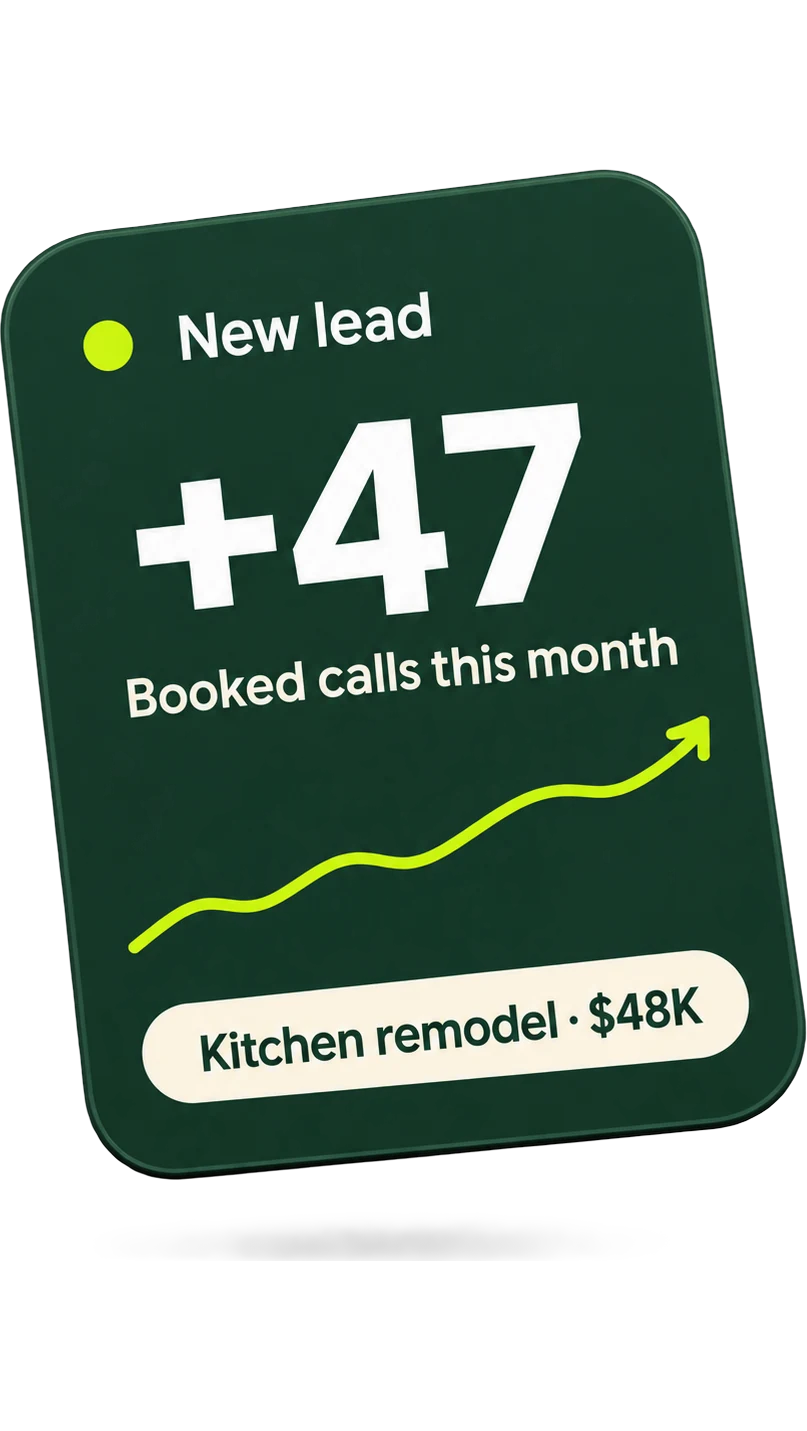
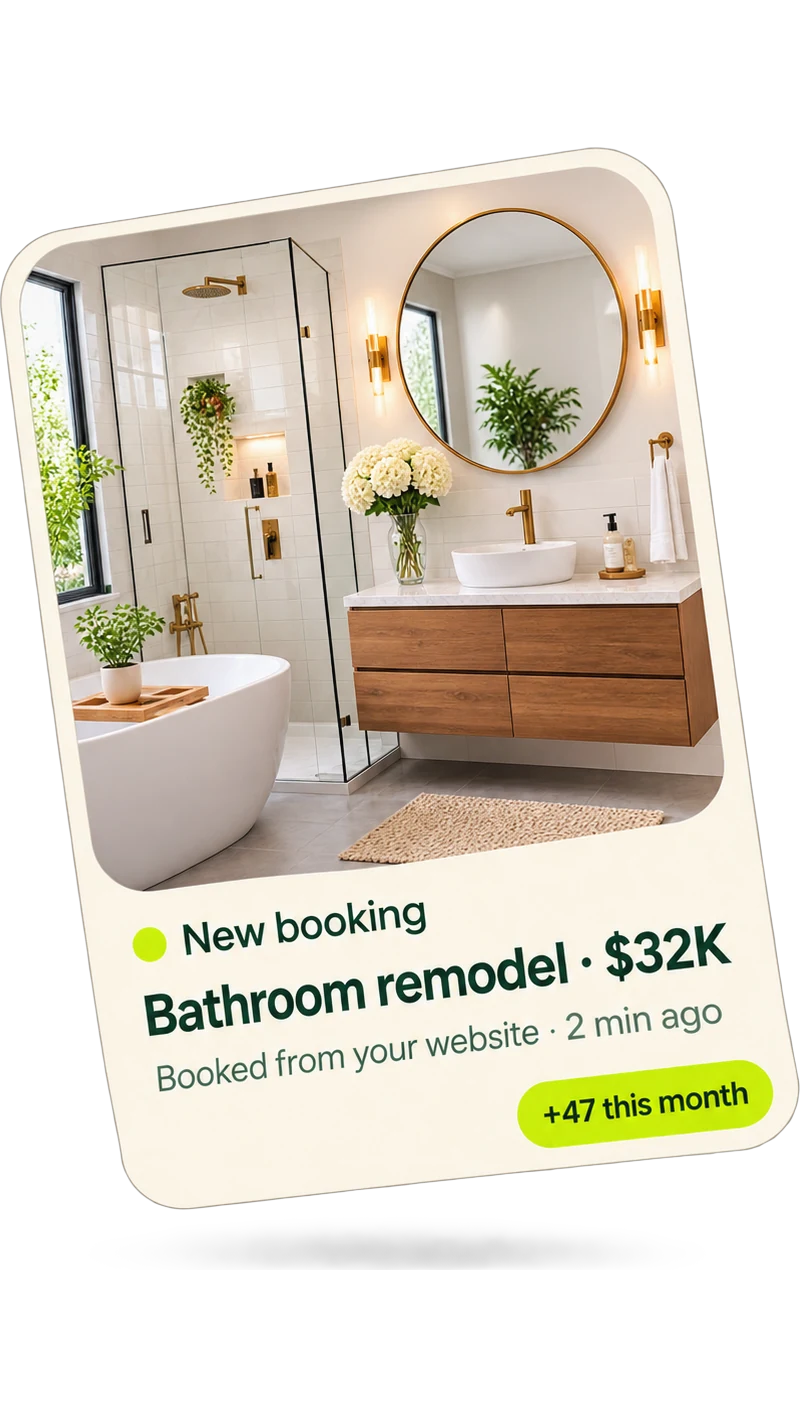
changes

diff --git a/assets/css/styles.css b/assets/css/styles.css
@@ -10911,5 +10911,5 @@ html body .hero-canvas .mockup-tall img {
   object-fit: contain;
 }
 html body .hero-canvas .mockup-tall-right {
-  margin-right: 3.1%;
+  margin-right: 3.3%;
 }
